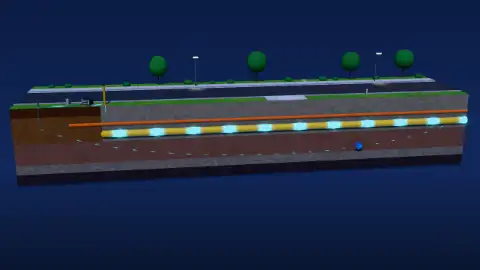
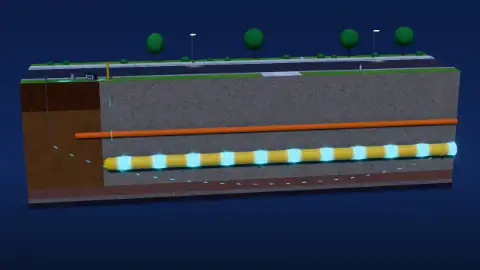
Re-capture the lab's pictures from its deeper view
The card picture keeps the hookup and the signal along the main in
frame; the posters and share previews show the block as it's drawn now.

diff --git a/scripts/thumbnails.ts b/scripts/thumbnails.ts
@@ -85,8 +85,8 @@ const SHOTS: Shot[] = [
     path: 'training/frequency-lab/?setup=steel&f=33000&tier=high&capture',
     ready: labReady,
     hide: LAB_CHROME,
-    // Close on the hookup and the signal setting off along the main.
-    crop: { x: 40, y: 200, width: 600 },
+    // Close on the hookup and the signal setting off along the main, the street edge over them.
+    crop: { x: 40, y: 178, width: 600 },
   },
   {
     name: 'gas-petroleum',
